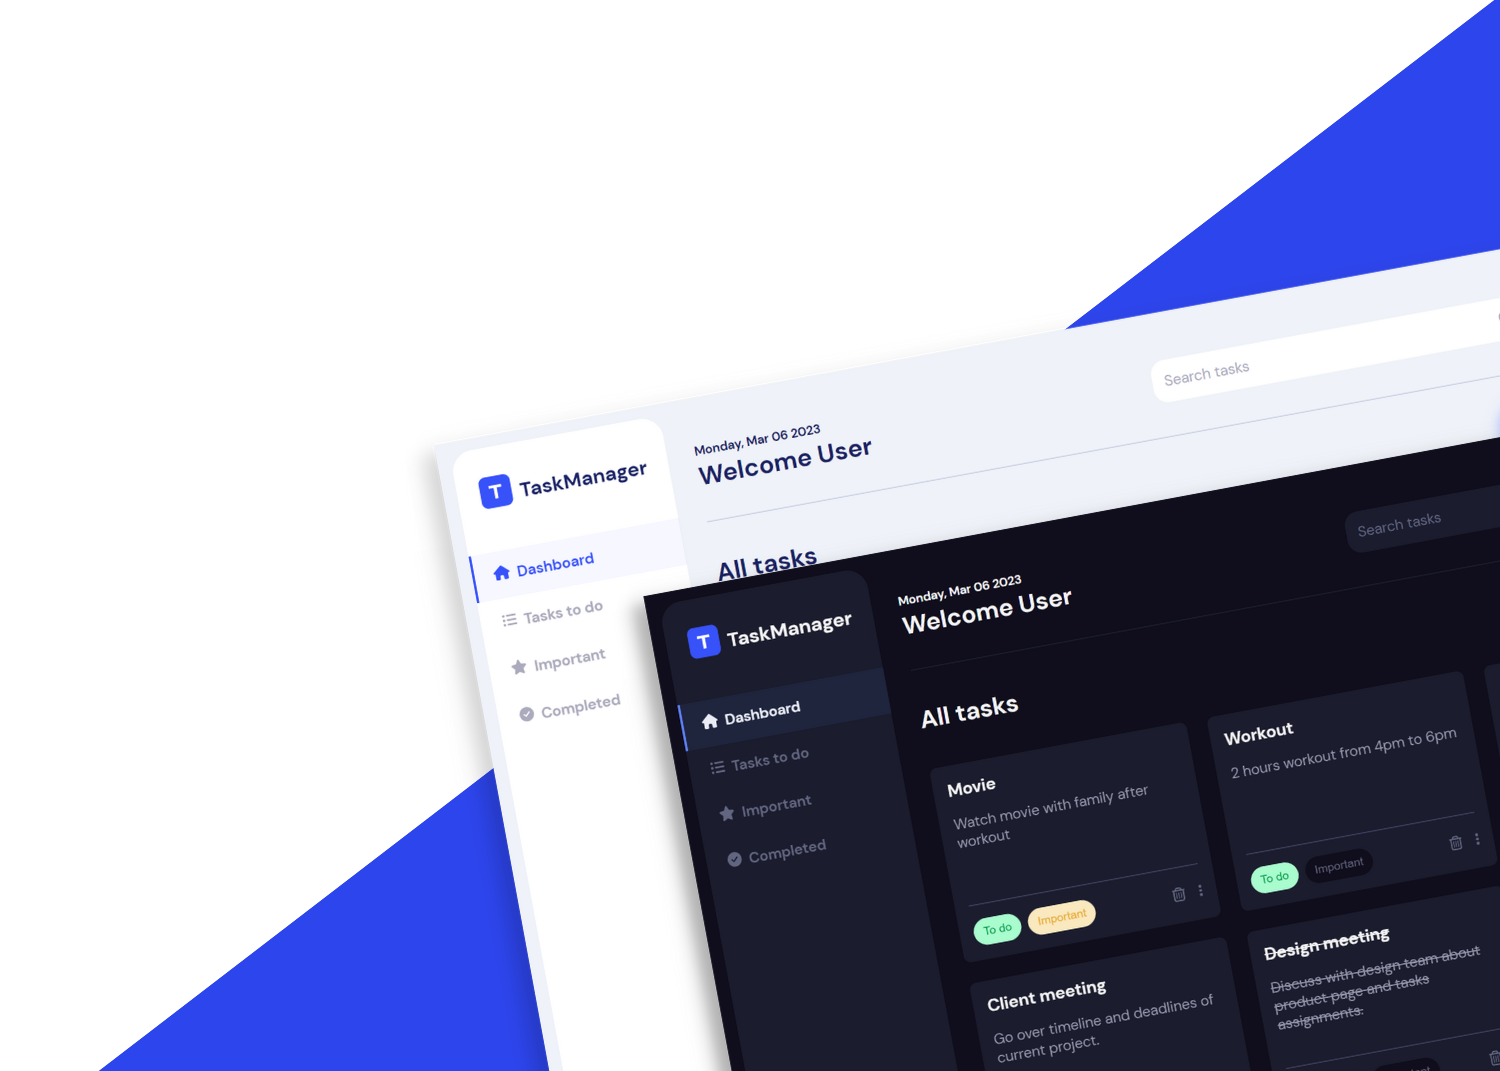
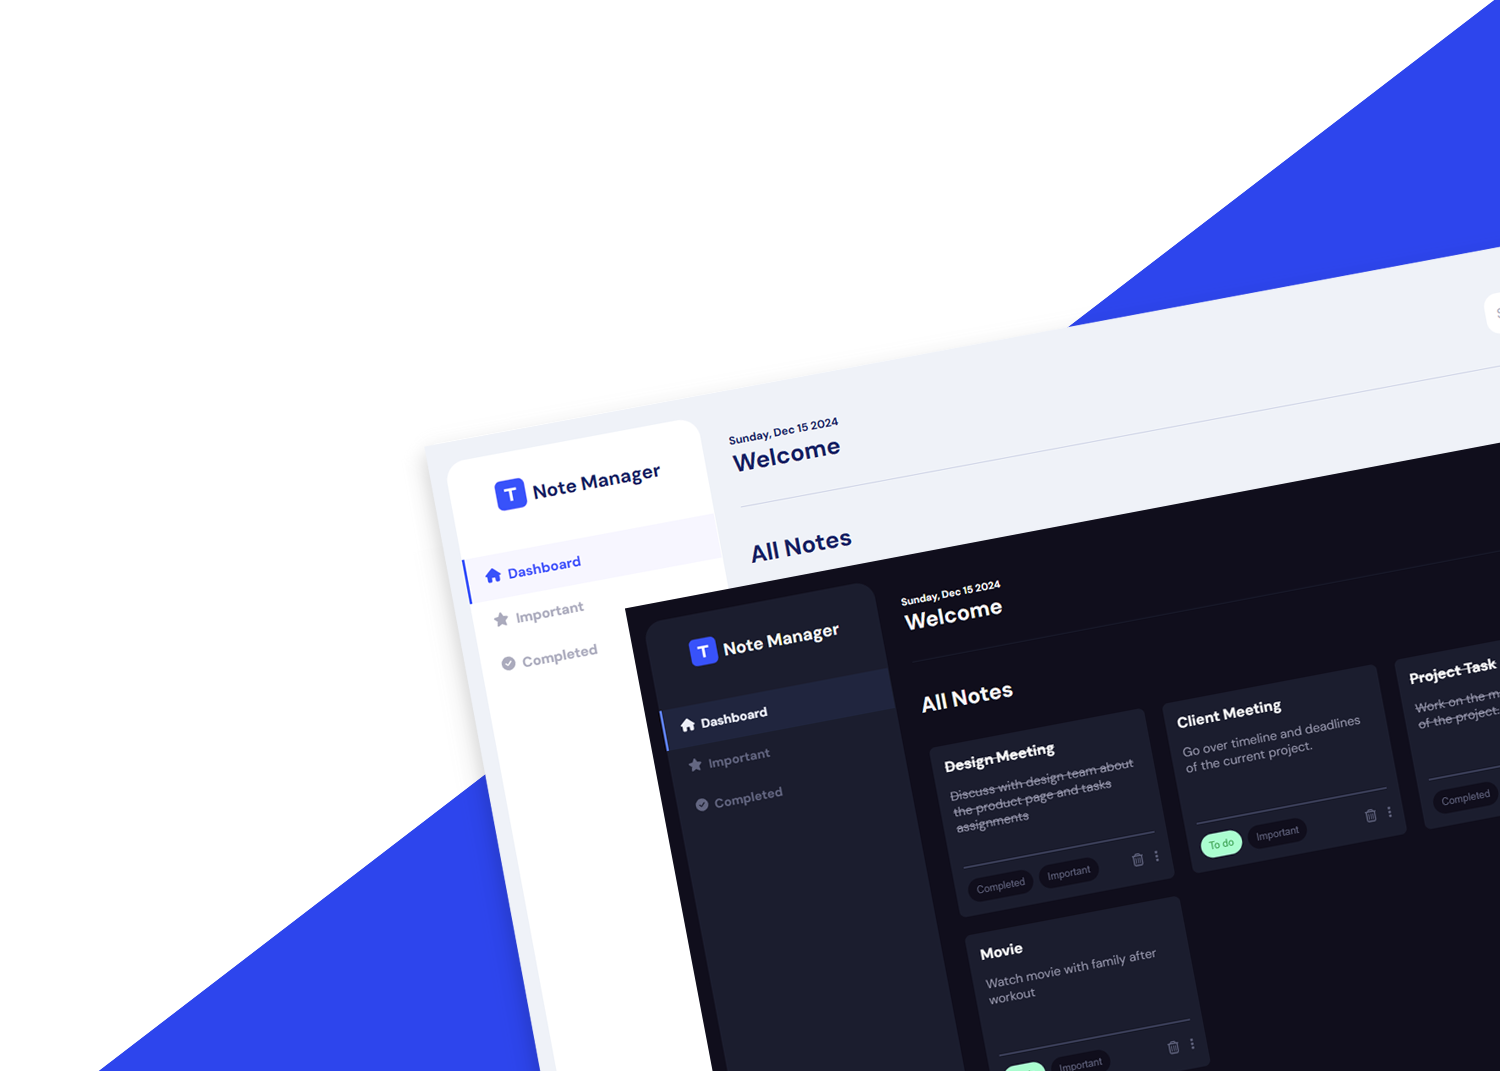
update the image

diff --git a/client/src/components/sidenav-left/SideNavLeft.tsx b/client/src/components/sidenav-left/SideNavLeft.tsx
@@ -34,7 +34,7 @@ export const SideNavLeft = () => {
             className='brand-logo'
             alt='NoteManager Logo'
           />
-          <h3 className='brand-name'>NoteManager</h3>
+          <h3 className='brand-name'>Note Manager</h3>
         </div>
         <Navbar />
       </div>

diff --git a/client/src/components/sidenav-left/SideNavLeft.css b/client/src/components/sidenav-left/SideNavLeft.css
@@ -15,6 +15,7 @@
 
 .sidenav-left .brand {
   align-items: flex-end;
+  justify-self: center;
   flex-flow: row wrap;
   gap: 0.5rem;
   padding: 0 1.5rem;
